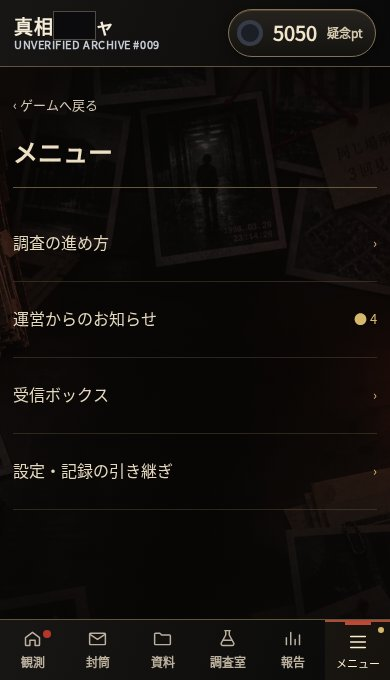
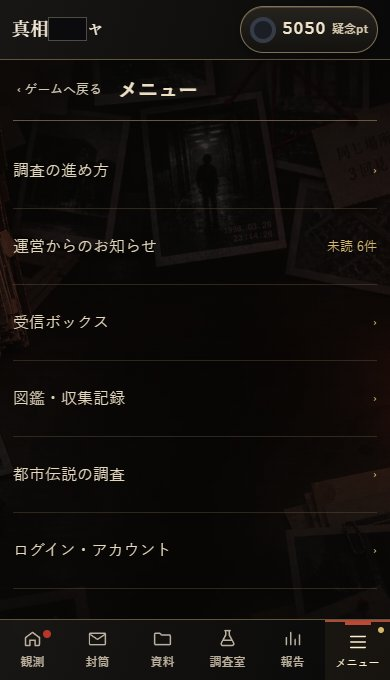
Clarify unread and unclaimed menu counts (#234)

diff --git a/assets/menu.js b/assets/menu.js
@@ -80,7 +80,10 @@ function renderMenuBadge(){
  const news=GAME_NOTICES.filter(n=>!c.readNotices.includes(n.id)).length;
  const mail=GAME_MAIL.filter(m=>c.mail[m.id]&&(!c.mail[m.id].read||(m.reward&&!c.mail[m.id].claimed))).length;
  document.getElementById('menu-dot').hidden=!(news+mail);
- document.getElementById('game-menu').setAttribute('aria-label',`メニュー${news+mail?'、未読または未受取あり':''}`);
+ const pending=[];
+ if(news)pending.push(`お知らせ未読${news}件`);
+ if(mail)pending.push(`受信ボックスの未読または未受取${mail}件`);
+ document.getElementById('game-menu').setAttribute('aria-label',`メニュー${pending.length?'、'+pending.join('、'):''}`);
  return {news,mail};
 }
 let menuReturn=null,menuPageBack='return';
@@ -113,7 +116,7 @@ function returnFromMenu(){
 }
 function openGameMenu(){
  const n=renderMenuBadge();
- openMenuPage('メニュー',`<div class="game-menu-list">${!isLite()?'<button data-trail="guide"><span>調査の進め方</span><small>›</small></button>':''}${introActive()?'<button data-intro="skip"><span>導入を飛ばす</span><small>›</small></button>':''}<button data-menu="news"><span>運営からのお知らせ</span><small>${n.news?'● '+n.news:'›'}</small></button><button data-menu="inbox"><span>受信ボックス</span><small>${n.mail?'● '+n.mail:'›'}</small></button><button data-menu="catalog"><span>図鑑・収集記録</span><small>›</small></button>${!isLite()?'<button data-menu="investigations"><span>都市伝説の調査</span><small>›</small></button>':''}<button data-menu="account"><span>ログイン・アカウント</span><small>›</small></button><button data-menu="settings"><span>設定</span><small>›</small></button></div>`);
+ openMenuPage('メニュー',`<div class="game-menu-list">${!isLite()?'<button data-trail="guide"><span>調査の進め方</span><small>›</small></button>':''}${introActive()?'<button data-intro="skip"><span>導入を飛ばす</span><small>›</small></button>':''}<button data-menu="news" aria-label="運営からのお知らせ${n.news?'、未読'+n.news+'件':''}"><span>運営からのお知らせ</span><small aria-hidden="true">${n.news?'未読 '+n.news+'件':'›'}</small></button><button data-menu="inbox" aria-label="受信ボックス${n.mail?'、未読または未受取'+n.mail+'件':''}"><span>受信ボックス</span><small aria-hidden="true">${n.mail?'要確認 '+n.mail+'件':'›'}</small></button><button data-menu="catalog"><span>図鑑・収集記録</span><small>›</small></button>${!isLite()?'<button data-menu="investigations"><span>都市伝説の調査</span><small>›</small></button>':''}<button data-menu="account"><span>ログイン・アカウント</span><small>›</small></button><button data-menu="settings"><span>設定</span><small>›</small></button></div>`);
 }
 function menuBack(target='home'){return `<button class="menu-back" data-menu="${target}">‹ ${target==='home'?'メニュー':target==='news'?'お知らせ一覧':'受信ボックス'}</button>`;}
 function openGameNews(){const c=menuState();openMenuPage('運営からのお知らせ',menuBack()+`<div class="game-message-list">${GAME_NOTICES.map(n=>`<button data-notice="${n.id}"><small>${n.date}${c.readNotices.includes(n.id)?'':' · 未読'}</small><b>${n.title}</b></button>`).join('')}</div>`);}

diff --git a/docs/CURRENT-SPEC.md b/docs/CURRENT-SPEC.md
@@ -1,6 +1,6 @@
 # 真相ガチャ 現行仕様書
 
-**内容照合：2026-10-19 / main \`298725f\`。**
+**内容照合：2026-10-19 / main \`007ba38\`。**
 この書は現在の機能・数値・保存契約を記す。更新時は[仕様書と設計書の更新手順](SPEC-DESIGN-WORKFLOW.md)に従い、コードと同じPRで影響する章を直す。過去の判断は \`SPEC.md\` と \`DESIGN.md\` に残す。最新の実装事実は常にmainとCIで確認する。
 
 ## 1. プロダクト
@@ -101,6 +101,8 @@
 | 報告・メニュー | 診断・実績・設定・保存・連絡 | 表示を切替、最小の見出しと明示的操作 |
 
 メニューを開いたときはページ見出しへフォーカスを移し、「ゲームへ戻る」で元の画面と起動ボタンへフォーカスを戻す。メール・お知らせの詳細から一覧へ戻ると、読んでいた項目へフォーカスを戻して画面内へ表示する。メニュー内の戻るボタンとEscapeは同じ復帰先を使い、キーボード利用時に画面遷移後の位置を見失わないようにする。報告の「診断」では診断カードと今日の報告を先に表示し、調査員証・ランクの詳細は同じ画面の後方から開ける。
+
+メニューのお知らせ件数は未読、受信ボックス件数は未読または添付未受取のメールを数える。重複するメールは1件として数え、メニュー一覧では「未読」「要確認」を件数に添え、下部メニューボタンと一覧項目の読み上げ名では対象と条件を明示する。既読・受取で即時更新し、件数が0になれば数値を消す。通知発生条件、保存状態、報酬は変更しない。
 
 観測画面の視点・地点名と拡大／暗部補正は映像の外に置く。狭い幅や文字拡大では上部の行を折り返し、画像と重ねない。異変中の短い案内と場所選択は文字拡大に応じて行高を増やす。資料・調査室・報告の見出しと分類切替は本文の上部にまとめ、操作領域を確保し、本文・画像に重ねない。資料保管庫では解読率・分類・照合導線が最初の資料を過度に押し下げないよう配置する。調査員のスマホ画面では共通ヘッダーの英字整理番号を省き、タイトル・疑念ptを維持する。調査室の強化欄では証拠数と「証拠の集め方」を同じ行に置き、説明は開閉して読める。観測装備・対抗策・強化カード間の重複余白を抑える。一般人編とPCのヘッダー、証拠の取得・消費は変更しない。
 

diff --git a/docs/EXPERIENCE-DESIGN.md b/docs/EXPERIENCE-DESIGN.md
@@ -1,6 +1,6 @@
 # 体験設計書：異質さ・違和感・継続プレイ
 
-内容照合：2026-10-19 / main `298725f`。この書は「何を感じさせるか」と画面・演出の判断基準を定める。個別の数値と実際の振る舞いは[現行仕様書](CURRENT-SPEC.md)に従い、更新時は[仕様書と設計書の更新手順](SPEC-DESIGN-WORKFLOW.md)で同じPRの差分を照合する。
+内容照合：2026-10-19 / main `007ba38`。この書は「何を感じさせるか」と画面・演出の判断基準を定める。個別の数値と実際の振る舞いは[現行仕様書](CURRENT-SPEC.md)に従い、更新時は[仕様書と設計書の更新手順](SPEC-DESIGN-WORKFLOW.md)で同じPRの差分を照合する。
 
 ## 1. 企画の核
 
@@ -29,6 +29,8 @@
 ## 3. 1画面1目的
 
 画面名と分類切替は可能なら1段にまとめ、本文を押し下げる重複行を増やさない。分類は44px以上の操作領域を持ち、本文上に固定して重ねない。文字拡大では切り捨てず折り返す。診断にだけ関係する調査員証などの操作は、その本文側に置くが、診断カードと今日の報告より前には出さない。スマホの調査員画面では、共通ヘッダーの飾り情報よりタイトルと所持pt、調査室では説明の常設行より最初の強化対象を優先する。説明は削除せず必要時に開ける。実例と検証範囲は [画面ナビゲーション点検](SCREEN-NAVIGATION-AUDIT-2026-10-19.md)。
+
+メニューの新着は点や裸の数字だけで示さない。「何が」「何件」「なぜ要確認か」が目でも読み上げでも分かる短い語を添える。既読・受取後は古い件数を残さず、一覧へ戻ると再確認できるようにする。
 
 初回：**封筒 / 言葉1行 / 行動1つ**。プレイ中の情報解放は「資料 3断片」「記録 6断片」「メニュー 10断片」。選択できない機能を先に見せて埋め尽くさない。
 

diff --git a/docs/SCREEN-NAVIGATION-AUDIT-2026-10-19.md b/docs/SCREEN-NAVIGATION-AUDIT-2026-10-19.md
@@ -99,3 +99,13 @@
 4. 機密カードが最初の資料を押し下げる → 先頭カードを維持したまま内部配置と余白を圧縮。
 
 実機の文字レンダリング・操作感と主観的な読みやすさは自動検査で証明できないため、#75に残す。
+
+## メニュー新着件数の意味と読み上げ
+
+今回のブラッシュアップ候補と対応：
+
+1. 一覧の「● 7」「● 1」は数字の対象が曖昧 → お知らせは「未読 7件」、受信ボックスは「要確認 1件」と表示する。
+2. 下部メニューの読み上げが新着の有無だけで内訳を伝えない → お知らせ未読数と受信ボックスの未読・添付未受取数をそれぞれ読める名前にする。
+3. 既読・受取後にも古い件数が残る懸念 → 既存の再計算を維持し、一覧へ戻った時の更新と0件時の非表示をChromium/WebKitで検査する。
+
+通知の発生・保存・報酬・メールの計数条件は変えない。320/390/844pxで横あふれと戻り先を確認する。実iPhoneの見た目と読み上げの検収は #75 に残す。
